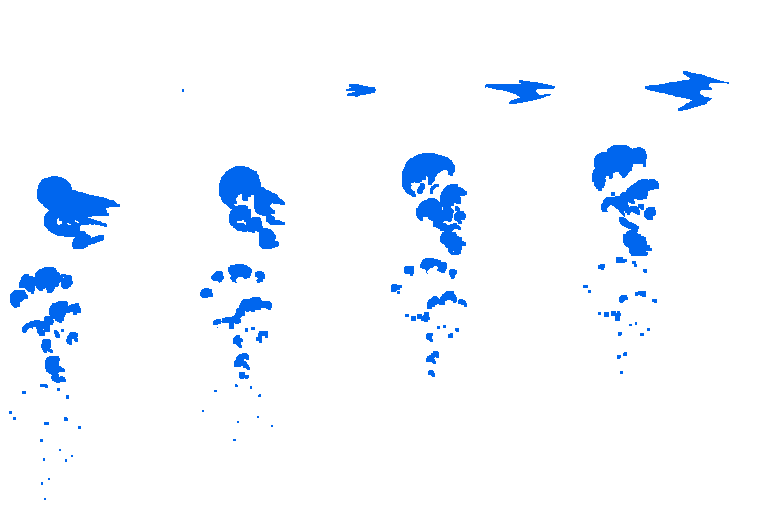
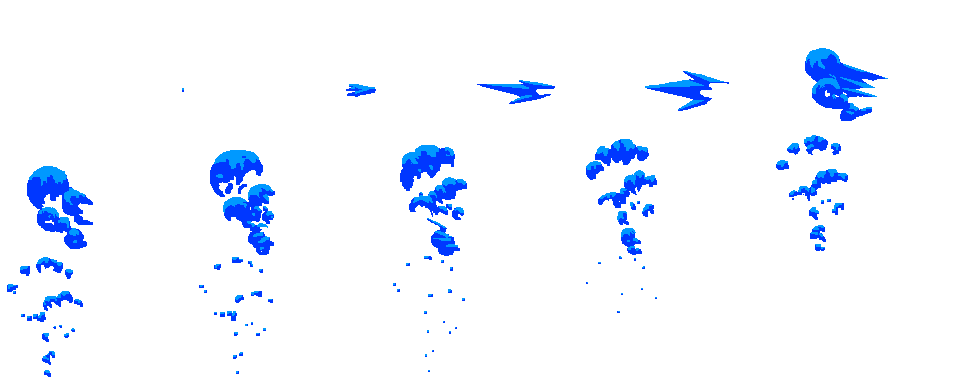
new fx

diff --git a/Code/Actor.cpp b/Code/Actor.cpp
@@ -761,27 +761,30 @@ Actor::Actor( GameSession *gs, int p_actorIndex )
 
 		ts_fx_hurtSpack = owner->GetTileset( "hurt_spack_128x160.png", 128, 160 );
 
-		ts_fx_dashStart = owner->GetTileset( "fx_dashstart_192x160.png", 192, 160 );
+		ts_fx_dashStart = owner->GetTileset( "fx_dashstart_160x160.png", 160, 160 );
 		ts_fx_dashRepeat = owner->GetTileset( "fx_dashrepeat_192x128.png", 192, 128 );
 		ts_fx_land = owner->GetTileset( "fx_land_128x128.png", 128, 128 );
 
-		ts_fx_runStart = owner->GetTileset( "fx_runstart_96x96.png", 96, 96 );
-		ts_fx_sprint = owner->GetTileset( "fx_sprint_192x192.png", 192, 192 );
-		ts_fx_run = owner->GetTileset( "fx_run_160x128.png", 160, 128 );
+		ts_fx_runStart = owner->GetTileset( "fx_runstart_128x112.png", 128, 112 );
+		ts_fx_sprint = owner->GetTileset( "fx_sprint_176x176.png", 176, 176 );
+		ts_fx_run = owner->GetTileset( "fx_run_144x128.png", 144, 128 );
 
 		ts_fx_bigRunRepeat = owner->GetTileset( "fx_bigrunrepeat.png", 176, 112 );
-		ts_fx_jump = owner->GetTileset( "fx_jump_160x64.png", 160, 64 );
-		ts_fx_wallJump = owner->GetTileset( "fx_walljump_128x160.png", 128, 160 );
+		ts_fx_jump = owner->GetTileset( "fx_jump_128x80.png", 128, 80 );
+		ts_fx_wallJump = owner->GetTileset( "fx_walljump_112x160.png", 112, 160 );
 		ts_fx_double = owner->GetTileset( "fx_doublejump_196x160.png", 196 , 160 );
 		ts_fx_gravReverse = owner->GetTileset( "fx_grav_reverse_128x128.png", 128 , 128 );
 		ts_fx_chargeBlue0 = owner->GetTileset( "elec_01_128x128.png", 128, 128 );
 		ts_fx_chargeBlue1 = owner->GetTileset( "elec_03_128x128.png", 128, 128 );
 		ts_fx_chargeBlue2 = owner->GetTileset( "elec_04_128x128.png", 128, 128 );
 		ts_fx_chargePurple = owner->GetTileset( "elec_02_128x128.png", 128, 128 );
+
 		ts_fx_airdashDiagonal = owner->GetTileset( "fx_airdash_diagonal_1_128x128.png", 128, 128 );
-		ts_fx_airdashUp = owner->GetTileset( "fx_airdash_up_1_128x128.png", 128, 128 );
-		ts_fx_airdashSmall = owner->GetTileset( "fx_airdash.png", 32, 32 );		
+		//ts_fx_airdashUp = owner->GetTileset( "fx_airdash_up_1_128x128.png", 128, 128 );
+		ts_fx_airdashUp = owner->GetTileset( "fx_airdash_128x128.png", 128, 128 );
+		//ts_fx_airdashSmall = owner->GetTileset( "fx_airdash.png", 32, 32 );		
 		ts_fx_airdashHover = owner->GetTileset( "fx_airdash_hold_1_96x80.png", 96, 80 ); 
+
 		ts_fx_death_1a = owner->GetTileset( "death_fx_1a_256x256.png", 256, 256 );
 		ts_fx_death_1b = owner->GetTileset( "death_fx_1b_128x80.png", 128, 80 );
 		ts_fx_death_1c = owner->GetTileset( "death_fx_1c_128x128.png", 128, 128 );
@@ -1402,6 +1405,7 @@ bool Actor::AirAttack()
 
 void Actor::Respawn()
 {
+	speedParticleCounter = 0;
 	framesNotGrinding = 0;
 	runeStep = 0;
 	runeLength = 0;
@@ -4508,7 +4512,6 @@ void Actor::UpdatePrePhysics()
 							hasDoubleJump = true;
 							lastWire = 0;
 
-
 							ground = grindEdge;
 							movingGround = grindMovingTerrain;
 							groundSpeed = -grindSpeed;
@@ -6058,7 +6061,7 @@ void Actor::UpdatePrePhysics()
 
 					fxPos += gNorm * 16.0;
 					
-					owner->ActivateEffect( EffectLayer::IN_FRONT, ts_fx_jump, fxPos , false, ang, 12, 2, facingRight );
+					owner->ActivateEffect( EffectLayer::IN_FRONT, ts_fx_jump, fxPos , false, ang, 6, 4, facingRight );
 
 					ground = NULL;
 					movingGround = NULL;
@@ -7846,14 +7849,14 @@ void Actor::UpdatePrePhysics()
 	collision = false;
 	groundedWallBounce = false;
 
-	if( ground != NULL )
+	/*if( ground != NULL )
 	{
 		cout << "groundspeed: " << groundSpeed << endl;
 	}
 	else
 	{
 		cout << "vel: " << velocity.x << ", " << velocity.y << endl;
-	}
+	}*/
 	//if( ground == NULL )
 	//cout << "final vel: " << velocity.x << ", " << velocity.y << endl;
 	//cout << "before position: " << position.x << ", " << position.y << endl;
@@ -13359,7 +13362,7 @@ void Actor::UpdatePostPhysics()
 				//owner->ActivateEffect( ts_fx_airdashSmall, V2d( position.x, position.y + 0 ), false, 0, 12, 4, facingRight );
 			}
 
-			if( frame % 4 == 0 )
+			if( frame % 4 == 0 && slowCounter == 1 )
 			{
 				if( stopped )
 				{
@@ -15998,49 +16001,9 @@ void Actor::UpdateSprite()
 			}
 			
 			double angle = GroundedAngle();
-			V2d along = normalize( ground->v1 - ground->v0 );
 
-			bool fr = facingRight;
-			if( reversed )
-			fr = !fr;
 
-			double xExtraStartRun = 0.0;//5.0
-
-			//this seems pretty odd. need a thing for its first repetition
-			//so i dont need to check the controller here
-			if( frame == 0 && ( 
-					( currInput.LLeft() && !prevInput.LLeft() ) 
-				||  ( currInput.LRight() && !prevInput.LRight() ) )  )
-			{
-				owner->ActivateEffect( EffectLayer::BETWEEN_PLAYER_AND_ENEMIES, ts_fx_runStart,
-				pp + gn * 32.0 + along * xExtraStartRun, false, angle, 6, 3, fr );
-				//runTappingSound.stop();
-				//runTappingSound.play();
-			}
-		
-			double xExtraStart = -48.0;
-			if( !facingRight )
-				xExtraStart = -xExtraStart;
-			if( reversed )
-				xExtraStart = -xExtraStart;
-
-		
-			if( frame == 3 * 4 )
-			{
-				owner->ActivateEffect( EffectLayer::BETWEEN_PLAYER_AND_ENEMIES, ts_fx_run,
-					pp + gn * 48.0 + along * xExtraStart, false, angle, 8, 3, fr );
-				owner->soundNodeList->ActivateSound( soundBuffers[S_RUN_STEP1] );
-			}
-			else if( frame == 8 * 4 )
-			{
-				owner->ActivateEffect( EffectLayer::BETWEEN_PLAYER_AND_ENEMIES, ts_fx_run,
-					pp + gn * 48.0 + along * xExtraStart, false, angle, 8, 3, fr );
-					//owner->ActivateEffect( EffectLayer::BETWEEN_PLAYER_AND_ENEMIES, ts_fx_dashStart, 
-			//		pp + gn * 32.0 + along * xExtraStart , false, angle, 9, 3, facingRight );
-				owner->soundNodeList->ActivateSound( soundBuffers[S_RUN_STEP2] );
-			}
-		
-		
+			//V2d along = normalize( ground->v1 - ground->v0 );
 			SetSpriteTexture( action );
 
 			bool r = (facingRight && !reversed ) || (!facingRight && reversed );
@@ -16051,16 +16014,64 @@ void Actor::UpdateSprite()
 			sprite->setOrigin( sprite->getLocalBounds().width / 2, sprite->getLocalBounds().height);
 			sprite->setRotation( angle / PI * 180 );
 			
-			
-
+			V2d along;
 			if( (angle == 0 && !reversed ) || (approxEquals(angle, PI) && reversed ))
+			{
 				sprite->setPosition( pp.x + offsetX, pp.y );
+				if( !reversed )
+				{
+					along = V2d( 1, 0 );
+				}
+				else
+				{
+					along = V2d( -1, 0 );
+				}
+			}
 			else
+			{
 				sprite->setPosition( pp.x, pp.y );
-			//sprite->setPosition( position.x, position.y );
-			
-			//sprite->setPosition( position.x, position.y );
-			//cout << "angle: " << angle / PI * 180  << endl;
+				along = normalize( ground->v1 - ground->v0 );
+			}
+
+			V2d gn( along.y, -along.x );
+
+			bool fr = facingRight;
+			if( reversed )
+				fr = !fr;
+
+			double xExtraStartRun = -48.0;//0.0;//5.0
+			if( !fr )
+				xExtraStartRun = -xExtraStartRun;
+
+			//this seems pretty odd. need a thing for its first repetition
+			//so i dont need to check the controller here
+			if( frame == 0 && slowCounter == 1 && ( 
+					( currInput.LLeft() && !prevInput.LLeft() ) 
+				||  ( currInput.LRight() && !prevInput.LRight() ) )  )
+			{
+				owner->ActivateEffect( EffectLayer::BETWEEN_PLAYER_AND_ENEMIES, ts_fx_runStart,
+				pp + gn * 40.0 + along * xExtraStartRun, false, angle, 6, 3, fr );
+			}
+		
+			double xExtraStart = -48.0;
+			if( !facingRight )
+				xExtraStart = -xExtraStart;
+			if( reversed )
+				xExtraStart = -xExtraStart;
+
+		
+			if( frame == 3 * 4 && slowCounter == 1 )
+			{
+				owner->ActivateEffect( EffectLayer::BETWEEN_PLAYER_AND_ENEMIES, ts_fx_run,
+					pp + gn * 48.0 + along * xExtraStart, false, angle, 8, 3, fr );
+				owner->soundNodeList->ActivateSound( soundBuffers[S_RUN_STEP1] );
+			}
+			else if( frame == 8 * 4 && slowCounter == 1 )
+			{
+				owner->ActivateEffect( EffectLayer::BETWEEN_PLAYER_AND_ENEMIES, ts_fx_run,
+					pp + gn * 48.0 + along * xExtraStart, false, angle, 8, 3, fr );
+				owner->soundNodeList->ActivateSound( soundBuffers[S_RUN_STEP2] );
+			}
 
 			if( frame % 5 == 0 && abs( groundSpeed ) > 0 )
 			{
@@ -16071,15 +16082,6 @@ void Actor::UpdateSprite()
 		}
 	case SPRINT:
 		{	
-			if( frame == 2 * 4 )
-			{
-				owner->soundNodeList->ActivateSound( soundBuffers[S_SPRINT_STEP1] );
-			}
-			else if( frame == 6 * 4 )
-			{
-				owner->soundNodeList->ActivateSound( soundBuffers[S_SPRINT_STEP2] );
-			}
-
 			SetSpriteTexture( action );
 
 			bool r = (facingRight && !reversed ) || (!facingRight && reversed );
@@ -16109,11 +16111,47 @@ void Actor::UpdateSprite()
 				ground->v1 = oldv1;
 			}
 
+			V2d along;
 			if( (angle == 0 && !reversed ) || (approxEquals(angle, PI) && reversed ))
+			{
 				sprite->setPosition( pp.x + offsetX, pp.y );
+				if( !reversed )
+				{
+					along = V2d( 1, 0 );
+				}
+				else
+				{
+					along = V2d( -1, 0 );
+				}
+			}
 			else
+			{
 				sprite->setPosition( pp.x, pp.y );
+				along = normalize( ground->v1 - ground->v0 );
+			}
+
+			V2d gn( along.y, -along.x );
 			
+
+			double xExtraStart = -48.0;
+			if( !facingRight )
+				xExtraStart = -xExtraStart;
+			if( reversed )
+				xExtraStart = -xExtraStart;
+
+			if( frame == 2 * 4 && slowCounter == 1 )
+			{
+				owner->ActivateEffect( EffectLayer::BETWEEN_PLAYER_AND_ENEMIES, ts_fx_sprint,
+					pp + gn * 48.0 + along * xExtraStart, false, angle, 10, 2, facingRight );
+				owner->soundNodeList->ActivateSound( soundBuffers[S_SPRINT_STEP1] );
+			}
+			else if( frame == 6 * 4 && slowCounter == 1 )
+			{
+				owner->ActivateEffect( EffectLayer::BETWEEN_PLAYER_AND_ENEMIES, ts_fx_sprint,
+					pp + gn * 48.0 + along * xExtraStart, false, angle, 10, 2, facingRight );
+				owner->soundNodeList->ActivateSound( soundBuffers[S_SPRINT_STEP2] );
+			}
+
 			break;
 		}
 	case SEQ_CRAWLERFIGHT_STRAIGHTFALL:
@@ -16264,17 +16302,22 @@ void Actor::UpdateSprite()
 			else
 				sprite->setPosition( pp.x, pp.y );
 
-			if( frame == 0 )
+			if( frame == 0 && slowCounter == 1 )
 			{
 				V2d fxPos;
 				if( (angle == 0 && !reversed ) || (approxEquals(angle, PI) && reversed ))
+				{
 					fxPos = V2d( pp.x + offsetX, pp.y );
+					fxPos += V2d( 0, -1 ) * 48.0;
+				}
 				else
+				{
 					fxPos = pp;
-
-				fxPos += gn * 48.0;
+					fxPos += gn * 48.0;
+				}
 
 				//cout << "activating" << endl;
+
 				owner->ActivateEffect( EffectLayer::IN_FRONT, ts_fx_land, fxPos, false, angle, 8, 2, facingRight );
 			}
 			break;
@@ -16327,7 +16370,7 @@ void Actor::UpdateSprite()
 		}
 	case WALLJUMP:
 		{
-			if( frame == 0 )
+			if( frame == 0 && slowCounter == 1 )
 			{
 				V2d fxPos = position;
 				if( facingRight )
@@ -16338,7 +16381,7 @@ void Actor::UpdateSprite()
 				{
 					fxPos += V2d( 0, 0 );
 				}
-				owner->ActivateEffect( EffectLayer::IN_FRONT, ts_fx_wallJump, fxPos, false, 0, 8, 2, facingRight );
+				owner->ActivateEffect( EffectLayer::IN_FRONT, ts_fx_wallJump, fxPos, false, 0, 8, 3, facingRight );
 				
 				//cout << "ACTIVATING WALLJUMP" << endl;
 			}

diff --git a/Code/GameSession.cpp b/Code/GameSession.cpp
@@ -650,7 +650,7 @@ GameSession::GameSession( GameController &c, SaveFile *sf, MainMenu *p_mainMenu 
 	cloud0( sf::Quads, 3 * 4 ), cloud1( sf::Quads, 3 * 4 ),
 	cloudBot0( sf::Quads, 3 * 4 ), cloudBot1( sf::Quads, 3 * 4 )
 {	
-	multiSession = false;//true;
+	multiSession = false;//false;//true;
 	controller2 = NULL;
 	showTerrainDecor = true;
 	shipExitSeq = NULL;
@@ -6308,11 +6308,11 @@ int GameSession::Run( string fileN )
 
 				if( multiSession )
 				{
-					if( player->hasPowerLeftWire )
-						player->leftWire->UpdateQuads();
+					if( player2->hasPowerLeftWire )
+						player2->leftWire->UpdateQuads();
 
-					if( player->hasPowerRightWire )
-						player->rightWire->UpdateQuads();
+					if( player2->hasPowerRightWire )
+						player2->rightWire->UpdateQuads();
 				}
 
 				UpdateEnemiesPostPhysics();
@@ -7079,8 +7079,8 @@ int GameSession::Run( string fileN )
 
 			if( showTerrainDecor )
 			{
-			//if( listVAIter->triva != NULL )
-			//	preScreenTex->draw( *listVAIter->triva, rs );
+			if( listVAIter->triva != NULL )
+				preScreenTex->draw( *listVAIter->triva, rs );
 			//preScreenTex->setSmooth( true );
 			preScreenTex->draw( *listVAIter->wallva, rs );
 			preScreenTex->draw( *listVAIter->steepva, rs );

diff --git a/Code/Wire.cpp b/Code/Wire.cpp
@@ -20,7 +20,7 @@ Wire::Wire( Actor *p, bool r)
   numTotalCharges( 0 ), chargeVA( sf::Quads, MAX_CHARGES * 4 )
 {
 	//ts_wire = player->owner->GetTileset( "wire.png", 6, 36 );
-	ts_wire = player->owner->GetTileset( "wire_01_10x8.png", 10, 8 );
+	ts_wire = player->owner->GetTileset( "wire_01_14x8.png", 14, 8 );
 	if( r )
 	{
 		ts_miniHit = player->owner->GetTileset( "rain_64x64.png", 64, 64 );
@@ -873,7 +873,7 @@ void Wire::UpdateAnchors( V2d vel )
 		double left = min( quadOldPosA.x, min( quadOldWirePosB.x, min( quadWirePosC.x, quadPlayerPosD.x ) ) );
 		double right = max( quadOldPosA.x, max( quadOldWirePosB.x, max( quadWirePosC.x, quadPlayerPosD.x ) ) );
 
-		double ex = 1;
+		double ex = 3;
 		sf::Rect<double> r( left - ex, top - ex, (right - left) + ex * 2, ( bot - top ) + ex * 2 );
 
 		if( r.width == 0 || r.height == 0 )
